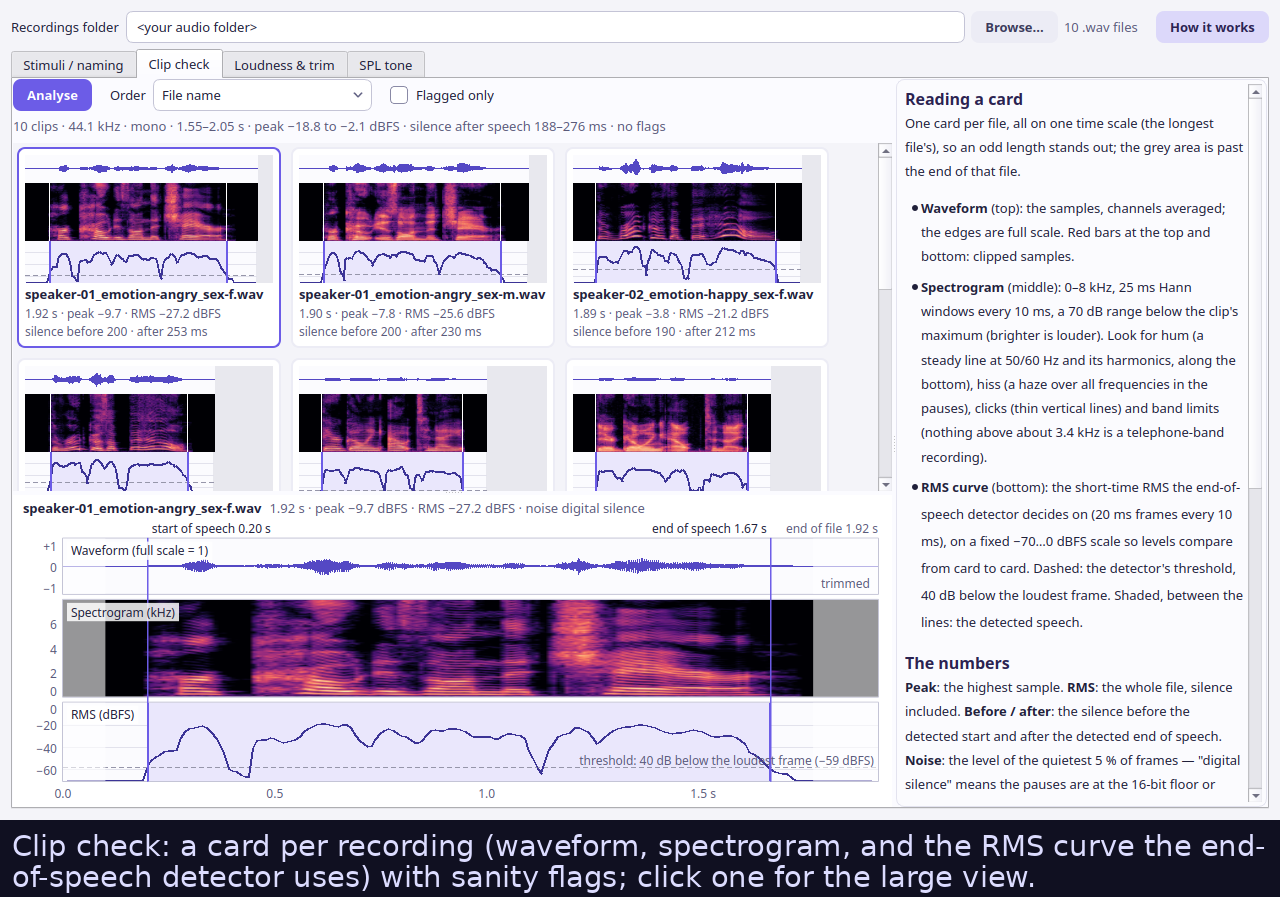
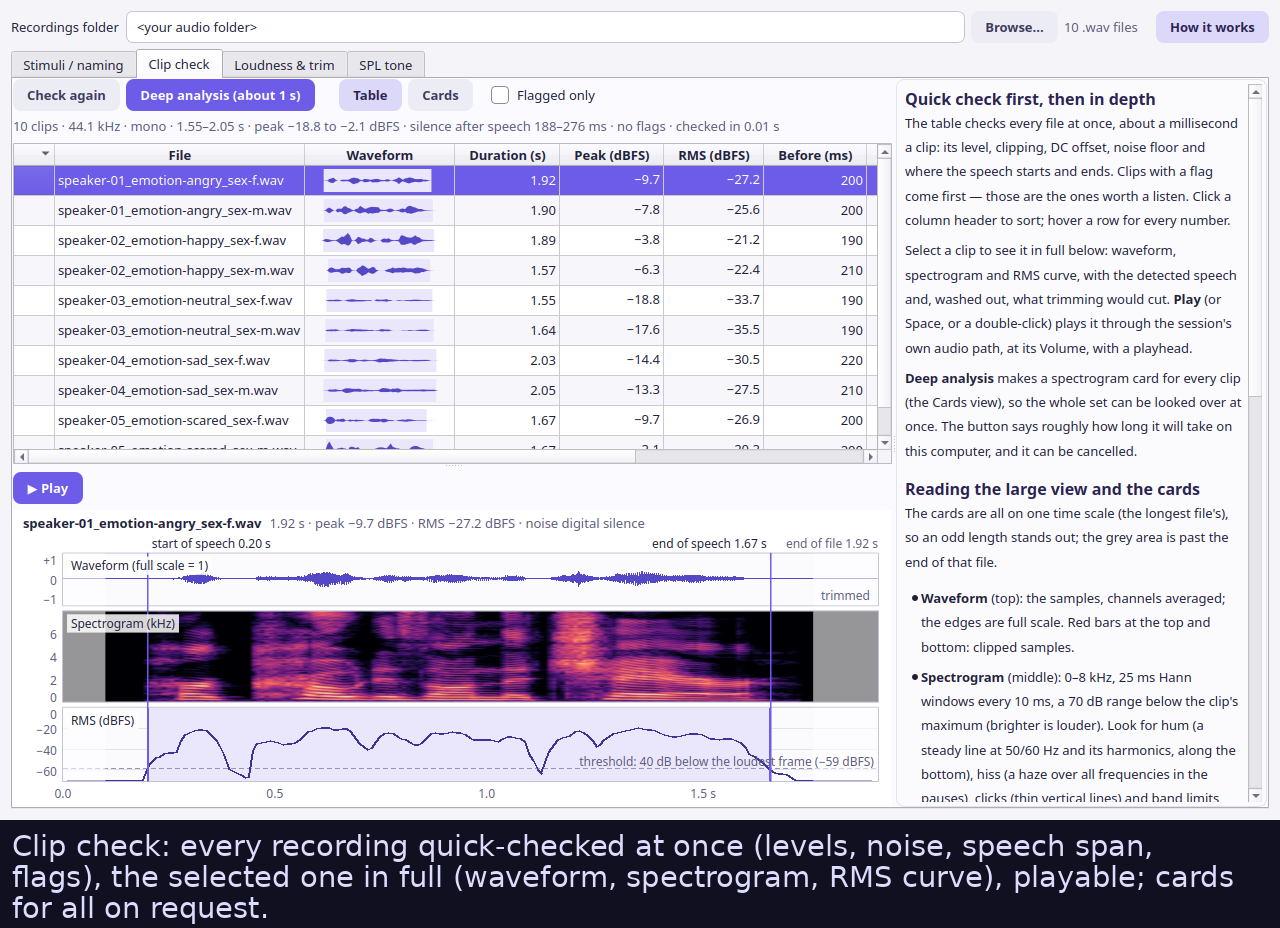
docs: the faster Clip check (quick check, playback, deep analysis); new screenshots

diff --git a/README.md b/README.md
@@ -382,13 +382,19 @@ tooltip.
   of clips per emotion and sex (unequal counts let a response bias score above
   chance), the `stimuli.tsv` manifest with its `stimuli.json` data dictionary,
   and renaming legacy names to BIDS style.
-- **Clip check**: a card per recording, all on one time scale: the waveform, a
-  spectrogram (0–8 kHz) and the short-time RMS curve the end-of-speech detector
-  decides on, with its threshold and the detected speech. Flags point at the
-  clips worth a listen: clipped samples, a DC offset, a low level (peak below
-  −20 dBFS), noise within 30 dB of the speech, speech running into the start or
-  end of the file, a sample rate or channel count unlike the rest. Click a card
-  for a large view with axes, which also shows what trimming would cut.
+- **Clip check**: every recording is quick-checked at once (about a
+  millisecond a clip) into a sortable table — duration, peak and RMS level,
+  silence before and after the speech, noise floor, format, and a small
+  waveform. Flags point at the clips worth a listen, which come first: clipped
+  samples, a DC offset, a low level (peak below −20 dBFS), noise within 30 dB of
+  the speech, speech running into the start or end of the file, a sample rate
+  or channel count unlike the rest. The selected clip is analysed in full for a
+  large view — waveform, spectrogram (0–8 kHz) and the short-time RMS curve the
+  end-of-speech detector decides on, with what trimming would cut — and
+  **Play** (or Space) plays it through the session's own audio path, at its
+  Volume, with a playhead. **Deep analysis**, on request, makes a spectrogram
+  card for every clip on one time scale; its button estimates how long that
+  will take on your computer, and it can be cancelled.
 - **Loudness & trim**: *Preview* shows what calibration would change for every
   clip (duration, silence before and after the speech, loudness, peak), as a
   table and as before/after charts with the target, ceiling and padding.
